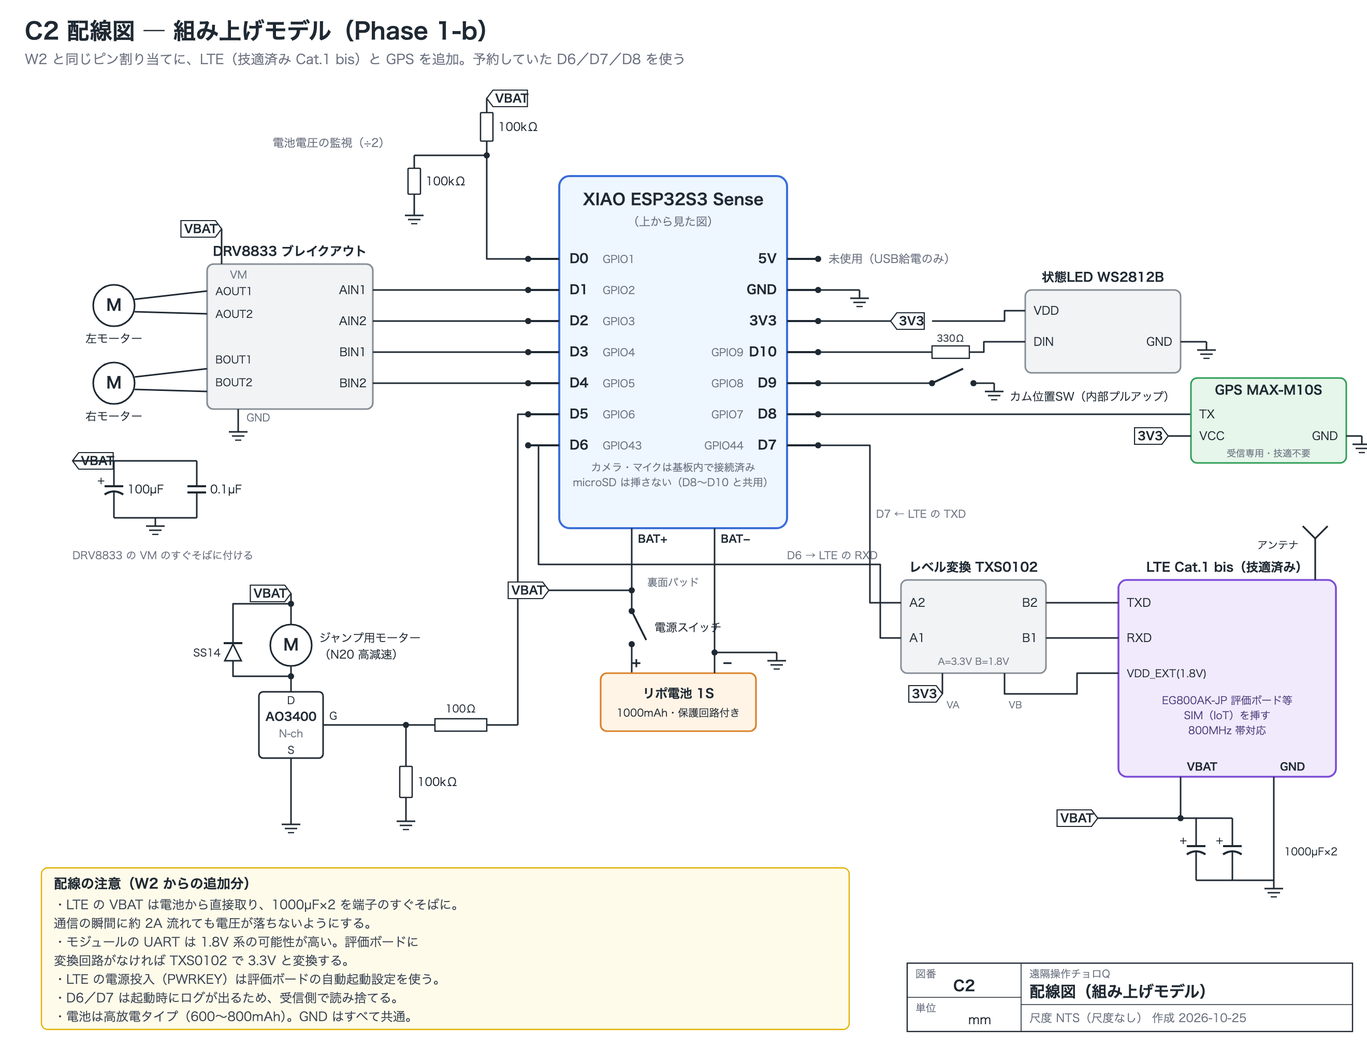
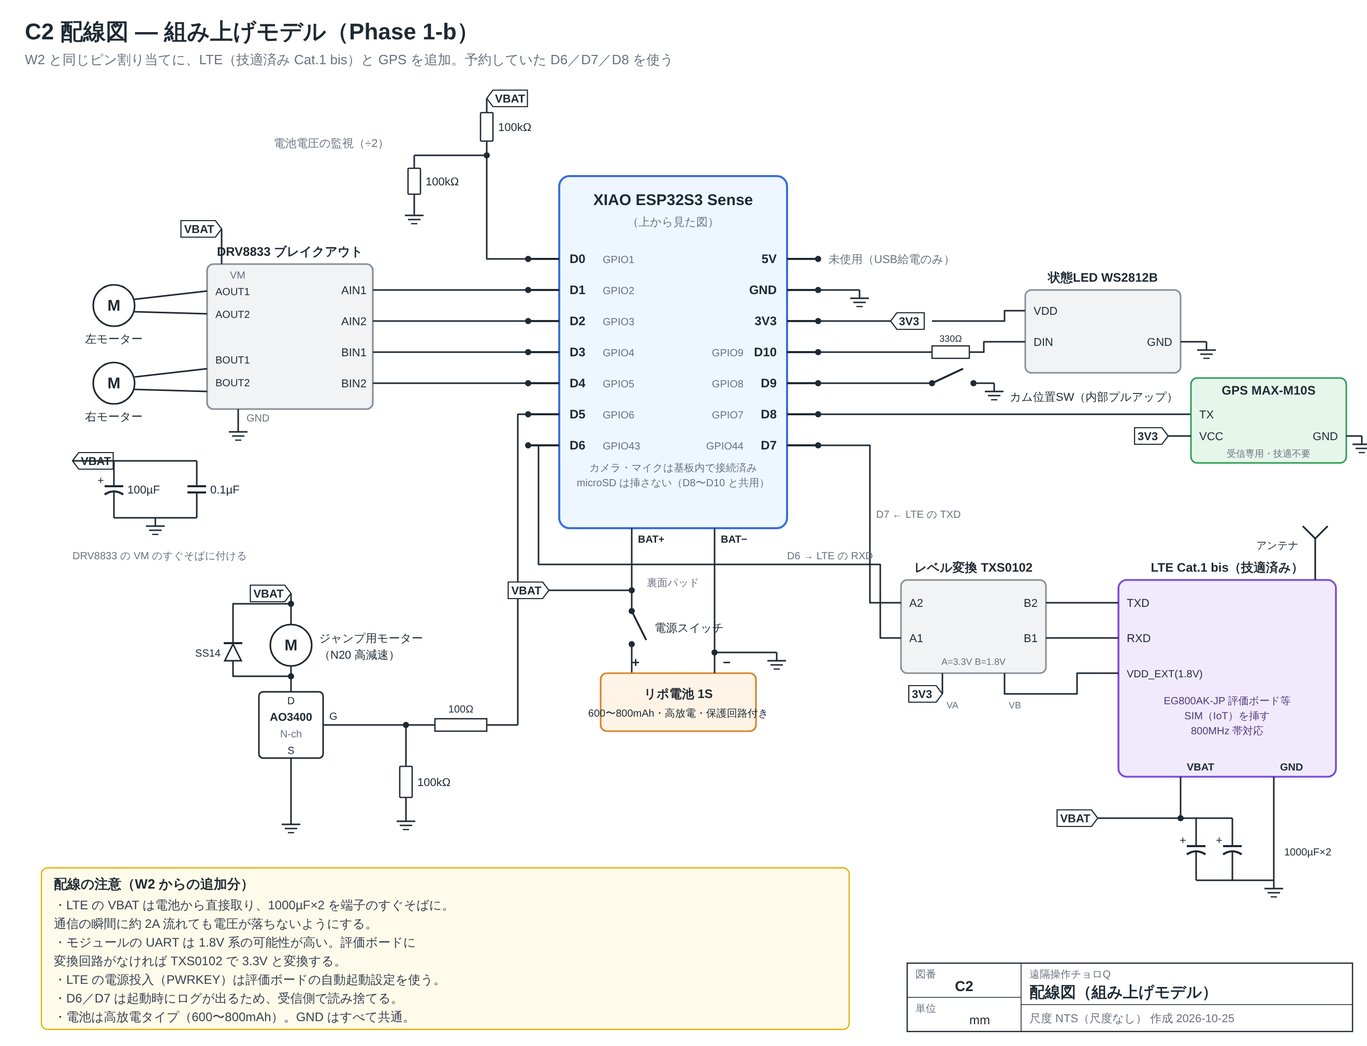
docs: 設計レビュー（2026-10-25）を追加し、図面と README を修正
- docs/review-2026-10-25.md：計画・設計書①②③・図面のレビューと反映状況
- 図面：C2 の電池表記を 600〜800mAh 高放電に、C1 の暗号化ラベルを DTLS-PSK にして
  重なりを解消、C3 にカムの収まり未確定の注記、C4 に段差越えの前進距離と
  ばね寸法の注記、W3 のキャスター破線の描画順を修正、「段階③」を Phase 1-b2 に統一
- render.sh：Linux の Chromium でも動くように。lib.py の死にコードを削除
- README：Phase 1-a／1-b1／1-b2／1-b3／2 の段階表、レビューへのリンク、DTLS-PSK の制約
- CLAUDE.md：段階の呼び方、DTLS-PSK、U137 追加時のピン案

Claude-Session: https://claude.ai/code/session_018snN9VXTb5oK2Z65gV8qfK

diff --git a/docs/drawings/src/d2.py b/docs/drawings/src/d2.py
@@ -22,7 +22,8 @@ def c1():
     s.line(650, 295, 560, 295, GREEN_S, 2, end="arrg")
     s.label_bg(605, 225, "UDP 操作", 11, ORANGE_S)
     s.label_bg(605, 318, "UDP 映像等", 11, GREEN_S)
-    s.text(605, 360, "AES-GCM で暗号化", 10, "middle", fill=MUTED)
+    s.text(605, 358, "DTLS-PSK", 10, "middle", fill=MUTED)
+    s.text(605, 372, "で暗号化", 10, "middle", fill=MUTED)
     s.line(800, 235, 870, 235, ORANGE_S, 2, end="arro")
     s.line(870, 295, 800, 295, GREEN_S, 2, end="arrg")
     s.label_bg(835, 225, "LTE", 11, ORANGE_S)
@@ -46,7 +47,8 @@ def c1():
         "・通信の仕組みは W1 と同じで、経路が「自宅Wi-Fi」から「LTE」に変わるだけ。経路を足せる作りは Phase 2 の中継で使う。",
         "・電波が弱いときは映像の画質を自動で下げ、音声を止めて、操作を最優先にする。",
         "・位置は GPS（屋外で 2〜5m）。屋内では GPS が効かないので、最後の位置と映像で判断する。",
-        "・U137（LTE-M）は後日、屋内で操作が途絶える場合の予備回線として追加する（ピンは別途 I2C 拡張で確保）。",
+        "・U137（LTE-M）は後日、屋内で操作が途絶える場合の予備回線として追加する。ピンはカム位置スイッチを",
+        "  廃止して D8・D9 を U137 の UART に充て、GPS は U137 内蔵の GNSS に置き換える。",
     ], "設計のポイント")
     s.title_block("C1", "システム構成図（組み上げモデル）")
     return s
@@ -56,7 +58,7 @@ def c3():
     k = 4.0
     s = Svg(1300, 1000)
     s.heading("C3  外形図（三面図）― 組み上げモデル",
-              "上段＝電子部品と電池（重い）、下段＝足回り。上下の間のばねでジャンプする。寸法は目安で、段階③の試作後に確定する")
+              "上段＝電子部品と電池（重い）、下段＝足回り。上下の間のばねでジャンプする。寸法は目安で、Phase 1-b2 の試作後に確定する")
     # ---------- top view
     x0, y0 = 120, 150
     L, Wd = 91, 55
@@ -161,6 +163,8 @@ def c3():
         "・前輪は自由回転。左右の回転差で向きを変える（スキッドステア）。",
         "・上段と下段はガイドピン（M2 ねじ）で上下だけ動く。ねじの頭が伸びきりのストッパー。",
         "・目標の重さは約 100g（内訳は設計書②の重量表）。",
+        "・上下のすき間 12mm は縮めると 2mm になる。10mm リフトのカム（直径 30mm 級）の収まり場所は",
+        "  未確定。Phase 1-b2 で「縮めた状態」の側面図も描いて確定する（てこで増幅する案も含む）。",
     ], "設計メモ", 12)
     s.title_block("C3", "外形図（組み上げモデル 三面図）", "約 1:2.5（画面上）")
     return s
@@ -231,7 +235,10 @@ def c4():
         "カムを回す力：トルク ≒ 力 × 半径の増え方（10mm ÷ 約5.2rad）＝ 20N × 1.9mm ≒ 0.04N·m。摩擦込みで 約0.08N·m。",
         "　→ N20 の高減速モーター（1000:1 前後）で回せる見込み。1回転 約3〜4秒 ＝ ジャンプの「チャージ時間」になる。",
         "跳躍の見積もり：上段の速さ √(2×0.1÷0.06) ≒ 1.8m/s → 下段を引っ張った後 約1.1m/s → 高さ 約6cm（損失を引くと 4〜5cm）。",
-        "※ 数値は計算上の目安。段階③の単体試作で、ばねの強さと縮め量を実測して決める。",
+        "前進も要る：3cm より高い滞空は 約0.16秒。ホイールベース 61mm を越えるには 約0.5m/s 必要（走行は 約0.25m/s）。",
+        "　→ ばね軸を前傾させて水平速度を作るか、走行モーターを 500rpm 級にする。試験は「助走付きで段差を越える」で行う。",
+        "ばねの寸法：0.5N/mm を線径 0.55mm で作ると約15巻き、密着高さ 約9mm。自由長 15mm では 10mm 縮まない → 自由長 25mm 以上。",
+        "※ 数値は計算上の目安。Phase 1-b2 の単体試作で、ばねの強さと縮め量を実測して決める。",
     ], "設計計算", 12)
     s.note_box(880, 600, 400, [
         "・SG90 サーボは力が足りないので使わない",

diff --git a/docs/drawings/src/d1.py b/docs/drawings/src/d1.py
@@ -223,7 +223,7 @@ def w2(lte=False):
     BX, BY = X + 40, by + 140
     s.rect(BX, BY, 150, 56, "#fff4e6", ORANGE_S, 1.6, 6)
     s.text(BX + 75, BY + 24, "リポ電池 1S", 12, "middle", "bold")
-    s.text(BX + 75, BY + 42, "1000mAh・保護回路付き", 10, "middle")
+    s.text(BX + 75, BY + 42, "600〜800mAh・高放電・保護回路付き" if lte else "1000mAh・保護回路付き", 10, "middle")
     s.text(BX + 30, BY - 6, "+", 13, weight="bold")
     s.line(X + 150, by + 120, X + 150, BY)
     s.text(X + 158, BY - 6, "−", 13, weight="bold")
@@ -344,9 +344,6 @@ def w3():
     s.rect(ax - 6 * k, y0 + 2 * k, 12 * k, 26 * k, "none", GRAY_S, 1.3, 2, "5 3")
     s.rect(ax - 6 * k, y0 + 32 * k, 12 * k, 26 * k, "none", GRAY_S, 1.3, 2, "5 3")
     s.text(ax + 17 * k + 10, y0 - 9 * k + 15, "← 走行モーター（プレートの下・破線）", 11, fill=GRAY_S)
-    # caster hidden
-    s.circle(x0 + 108 * k, y0 + 30 * k, 9 * k, "none", GRAY_S, 1.3, "5 3")
-    s.text(x0 + L * k + 14, y0 + 42 * k, "ボールキャスター（下・破線）", 11, fill=GRAY_S)
     # battery on top
     s.rect(x0 + 8 * k, y0 + 13 * k, 50 * k, 34 * k, "#fff1e0", ORANGE_S, 1.5, 4)
     s.text(x0 + 33 * k, y0 + 29 * k, "リポ電池", 12, "middle", "bold")
@@ -361,6 +358,9 @@ def w3():
     s.text(bx + 11 * k, by + 19 * k, "DRV", 10, "middle")
     s.rect(bx + 3 * k, by + 29 * k, 10 * k, 4 * k, "#fff", GRAY_S, 1, 1)
     s.text(bx + 16 * k, by + 33 * k, "LED", 9)
+    # caster hidden (drawn after the breadboard so the dashed circle stays visible)
+    s.circle(x0 + 108 * k, y0 + 30 * k, 9 * k, "none", GRAY_S, 1.3, "5 3")
+    s.text(x0 + L * k + 14, y0 + 42 * k, "ボールキャスター（下・破線）", 11, fill=GRAY_S)
     # camera at front edge
     s.rect(x0 + 115 * k, y0 + 25 * k, 6 * k, 10 * k, "#1f2933", INK, 1, 2)
     s.text(x0 + 124 * k, y0 + 23 * k, "カメラ（前向き）", 11)
@@ -408,7 +408,7 @@ def w3():
         "・走行モーターは N20 用の金具でプレートの下に固定する。",
         "・ボールキャスターはスペーサーで高さを合わせ、",
         "  車体が水平になるようにする。",
-        "・ジャンプ機構は段階③で単体の試作機を作る。この",
+        "・ジャンプ機構は Phase 1-b2 で単体の試作機を作る。この",
         "  車台には「動作確認用のカムとスイッチ」だけ載せる。",
         "・寸法は目安。部品が届いたら実測して決める。",
     ], "製作メモ")

diff --git a/docs/drawings/src/lib.py b/docs/drawings/src/lib.py
@@ -91,7 +91,6 @@ class Svg:
         self.add(f'<circle cx="{cx}" cy="{cy}" r="{r}" fill="{fill}" stroke="{stroke}" stroke-width="{sw}"{d}/>')
 
     def label_bg(self, x, y, s, size=12, fill=INK, bg="#ffffff", anchor="middle", weight="normal"):
-        w = len(s) * size * 0.95 if any(ord(c) > 255 for c in s) else len(s) * size * 0.6
         w = sum(size if ord(c) > 255 else size * 0.6 for c in s) + 8
         x0 = x - w / 2 if anchor == "middle" else (x if anchor == "start" else x - w)
         self.add(f'<rect x="{x0}" y="{y - size}" width="{w}" height="{size * 1.4}" rx="3" fill="{bg}" fill-opacity="0.95"/>')

diff --git a/docs/review-2026-10-25.md b/docs/review-2026-10-25.md
@@ -1,0 +1,109 @@
+# 計画・設計書レビュー（2026-10-25）
+
+対象：README、CLAUDE.md、Notion の企画まとめ・部品表・設計書①②③、図面 W1〜W3／C1〜C4／R1〜R3 とその生成スクリプト。
+末尾の「反映状況」に、このレビューで Notion と図面に反映した内容と、判断を残した項目をまとめた。
+
+## 結論
+
+計画と設計書の骨格は堅実で、通信プロトコルの考え方（機体から接続・キー状態 50Hz・連番・300ms 停止・ジャンプ ID）は良くできている。C4 のジャンプ計算（エネルギー・運動量・トルク）も検算して一致した。
+
+一方で、設計書②の「3cm の段差をジャンプで越える」が現状の寸法では成立しない。暗号化・ピン拡張・LTE 基板サイズの 3 つにも設計上の穴がある。ドキュメント間の不整合も数か所あった。Phase 1-a の着手自体は問題ないが、1-b に進む前に A-1〜A-5 を解消する。
+
+## 全体像
+
+この企画は「操作の確実性（300ms 停止）」を最優先にし、映像は劣化を許容する設計である。その軸はすべての設計書で一貫しており、これが最大の強み。
+
+リスクは機械系と 1-b に集中している。1-a は Wi-Fi と机上なので失敗コストが低い。一方 1-b では「LTE 化」「名刺サイズ化」「ジャンプ本番」という 3 つの未知を同時に抱えていた。企画まとめ 7 章にあった「大きめの台車で屋外走行」の段階が設計書から消えていたことが原因で、今回 1-b を 1-b1／1-b2／1-b3 に分けた。
+
+## A. 設計の成立に関わるもの（1-b の前に解消）
+
+### A-1. 段差越えは鉛直高さだけでは足りない
+
+C4 は跳躍高さ 4〜6cm しか見積もっていない。3cm の段差に両軸を乗せるには、3cm より高い滞空中にホイールベース 61mm 以上前進する必要がある。
+
+| 項目 | 値 |
+|---|---|
+| 下段を引き上げた後の初速 | 約 1.1 m/s（C4 と一致） |
+| 高さ 3cm 以上にいる時間 | 約 0.16 秒 |
+| 走行速度（N20 300rpm@6V を 3.7V 駆動、φ26） | 約 0.25 m/s |
+| 滞空中の前進距離 | 約 4cm |
+| 必要な前進距離 | 61mm ＋余裕 → 約 0.5 m/s 必要 |
+
+対策は、ばね軸を前傾させて水平速度成分を作る、または走行モーターを 500rpm 級にする。Phase 1-b2 の試験は「鉛直高さ」ではなく「助走付きで段差を越える」で行う。
+
+### A-2. ばねとカムの寸法が C3 と両立しない
+
+- 部品表のばね（自由長 15mm、線径 0.5〜0.6、外径 5〜6）で 0.5N/mm を出すには約 15 巻きが必要で、密着高さは約 9mm になる。15mm から 10mm は縮められない。自由長 25mm 以上にするか、線径を太くして巻数を減らす。
+- C3 の上下段すき間は 12mm で、縮めると 2mm になる。10mm リフトの渦巻きカムは直径 30mm 級になり、12mm 厚の下段にも 2mm のすき間にも収まらない。C3 に「縮めた状態」の側面図とカムの収まり場所を描いて確定する。てこで 2 倍に増幅して小さいカムを使う案も検討する。
+
+### A-3. AES-GCM の自前実装はノンス再利用の危険がある
+
+機体ごとの固定鍵で、再起動後に連番が 0 に戻ると同じノンスを再利用する。GCM でこれが起きると認証が破れ、平文も漏れる。起動ごとにセッション鍵を作るハンドシェイクを入れるか、ESP-IDF 標準の mbedTLS で DTLS-PSK を使う。後者のほうが安全で実装も少ない。
+
+あわせて、ブラウザ再読込や機体再起動で連番が巻き戻ったときの扱い（セッション ID の付与）が未定義だった。
+
+### A-4. U137 追加のためのピン確保策が成立しない
+
+設計書①は「I2C の GPIO 拡張で確保」としていたが、11 ピンすべて使用済みなので I2C 自体の 2 ピンがない。U137 は UART なので拡張 IC 経由でも動かない。
+
+案：カム位置スイッチを廃止してモーター電流か時間で「チャージ完了」を検知し、U137 内蔵の GNSS で MAX-M10S を置き換え、空いた D8 と D9 を U137 の UART に充てる。
+
+### A-5. LTE 基板のサイズとアンテナ効率が 1-b の最大リスク
+
+Quectel の評価ボードは 100mm 級で名刺サイズに載らない。代替の「モジュール＋自作キャリア基板」は LCC パッケージのはんだ付けが必要で、初めてのハード開発には重い。さらに 800MHz 帯のアンテナは波長の 4 分の 1 が約 9cm で、91mm の筐体ではグランドが足りず効率が落ちる。床すれすれという不利に上乗せされる。
+
+1-a と並行して評価ボードを入手し、床置きで実測して方針を決める。
+
+## B. 計画の構成
+
+- **B-1. 段階の番号体系が 3 種類あった。** 企画まとめは段階①〜④、部品表は区分 A/B/C と①②③、設計書は Phase 1-a/1-b/2。「Phase 1-a／1-b1／1-b2／1-b3／2」に統一した。
+- **B-2. 1-b を 3 つに割る。** 1-b1＝W3 の車台のまま LTE＋VPS＋GPS に載せ替える、1-b2＝ジャンプ機構の単体試作、1-b3＝名刺サイズに統合。企画まとめ 7 章の方針どおりになり、不具合の切り分けが容易になる。
+- **B-3. ジオフェンス停止は屋内で誤動作する。** 屋内では GPS が数十 m 飛ぶため、店内で突然止まる恐れがある。衛星数と HDOP の条件とヒステリシスを付ける。
+- **B-4. Phase 2 の合格基準を見直す。** 弱い LTE で増えるのは主にパケットロスと途絶で、遅延差は R3 ほど開かない可能性がある。「300ms 停止の発生回数」と「到達率」を主指標にする。
+- **B-5. ESP-NOW での映像中継は分割設計が要る。** ペイロード上限は 250 バイト（新しい ESP-IDF の v2 で約 1.4KB）。JPEG フレームの分割と再構成、欠けたフレームの破棄を設計書③に明記する。
+
+## C. ドキュメントの不整合
+
+- **C-1.** 企画まとめ 4 章が WebRTC・ハードウェアエンコード・B フレームなしと書いていたが、設計書は WebSocket と MJPEG。ESP32-S3 に H.264 エンコーダはないので企画まとめ側が古い。
+- **C-2.** 企画まとめ 6 章の「目立つ色とブザー」は、3 章と設計書の「ブザーは付けない」と矛盾。
+- **C-3.** C2 図面の電池が「1000mAh」のままだった（設計書②は 600〜800mAh 高放電）。`d1.w2(lte=True)` で電池の描画を共有していたため。
+- **C-4.** 部品表 A に WS2812B 直列の 330Ω、XIAO 電池パッドへの JST-PH ピグテール、1-a の動作確認用カムがなかった。100kΩ は合計 3 本必要。
+- **C-5.** 細部：C1 の「AES-GCM で暗号化」ラベルがサーバ枠に重なる。W3 のボールキャスター破線がブレッドボードの下に隠れる。`lib.py` の `label_bg` 先頭の幅計算は死にコード。`render.sh` は macOS 専用。
+
+## D. 電源と運用
+
+- **D-1.** XIAO の充電電流は約 100mA の仕様で、1000mAh の満充電に約 10 時間かかる。会場運用には外部の 1S 充電器と予備電池が必要。
+- **D-2.** 低電圧のしきい値が未定義。保護回路のカットオフは 2.5〜3.0V で低すぎ、LTE の 2A バーストで 3.3V レギュレータがブラウンアウトする。警告 3.5V、停止 3.3V を目安にする。ADC 入力には 0.1µF を並列に入れる。
+- **D-3.** 300ms 停止の前提として、サーバは状態を補完せず素通しする旨を明記する。試験に「ブラウザのタブを固まらせる」を追加。往復遅延は時計が同期していないので、機体がタイムスタンプをエコーする形にする。
+- **D-4.** 上段を密閉すると XIAO はストリーミング中に 60℃を超え、LTE も発熱する。通気を考慮する。
+
+## 良い点
+
+機体から接続のみ・技適縛り・録画しない方針の一貫性、「探す」を使わない論証の丁寧さ、ピン割り当ての全モデル共通化、C4 の運動量計算の正確さ。
+
+## 反映状況
+
+### このコミットで反映（図面・リポジトリ）
+
+- C2：電池表記を 600〜800mAh 高放電に（C-3）
+- C1：暗号化ラベルを DTLS-PSK に変更して重なりを解消、U137 のピン案を注記に（A-3、A-4、C-5）
+- C3：すき間 2mm とカムの収まりが未確定であることを注記に（A-2）
+- C4：前進距離の計算とばね寸法の注記を追加（A-1、A-2）
+- W3：キャスターの破線が隠れないよう描画順を修正（C-5）
+- 全図面：「段階③」を「Phase 1-b2」に統一（B-1）
+- `render.sh`：Linux の Chromium でも動くように。`lib.py` の死にコードを削除（C-5）
+- README・CLAUDE.md：段階の呼び方と不変の制約（DTLS-PSK、U137 のピン案）を更新
+
+### Notion に反映
+
+- 企画まとめ：4 章の通信方式（WebSocket／MJPEG）、6 章のセキュリティ（DTLS-PSK、ジオフェンスの条件）とブザーの記述、7 章の段階表（Phase 統一・1-b の分割）、8 章の未決事項
+- 設計書①：ピン表の U137 案、電源のしきい値、通信の約束ごと（セッション・素通し・エコー）、試験項目
+- 設計書②：1-b の進め方、完成条件、電源、通信、ジャンプ機構、試験、リスク
+- 設計書③：完成条件の指標、中継仕様（分割・DTLS との関係）、試験
+- 部品表：区分の呼び方、A の追加部品、B のばね仕様と充電器、確認事項
+
+### 判断を残した項目（ユーザー決定）
+
+- A-1 の対策をどちらにするか（ばね軸の前傾／走行モーターの高速化）。設計書②には両案を併記した
+- A-4 のカム位置スイッチ廃止は U137 を足すときに実施する前提で記載。1-a／1-b ではスイッチを残す
+- B-3 のジオフェンスを「条件付き停止」にするか「警告のみ」にするか。設計書②は条件付き停止で記載した

diff --git a/README.md b/README.md
@@ -17,9 +17,13 @@
 | フェーズ | 内容 | 状態 |
 |---|---|---|
 | 1-a Wi-Fiモデル | XIAO ESP32S3 Sense を自宅 Wi-Fi で机上で動かす（操作・映像・音声・ラグ計測） | 部品の注文前 |
-| 1-b 組み上げモデル | 技適済み LTE Cat.1 bis＋GPS に載せ替え、名刺サイズの2段構造に組み上げる | 未着手 |
+| 1-b1 LTE 化 | 1-a の車台のまま、技適済み LTE Cat.1 bis＋GPS＋東京の VPS に載せ替える | 未着手 |
+| 1-b2 ジャンプ単体試作 | ばね＋渦巻きカム＋高減速 N20 を単体で試作し、助走付きで 3cm の段差を越えることを確認する | 未着手 |
+| 1-b3 組み上げモデル | 1-b1 と 1-b2 の結果をもとに、名刺サイズの2段構造に統合する | 未着手 |
 | 2 中継ペアモデル | 同じ機体をもう1台作り、ESP-NOW で中継する（B が近いと A の操作が軽くなる） | 未着手 |
 | 後日 | U137（LTE-M）を予備回線として追加 | 未着手 |
+
+設計書②は 1-b1〜1-b3 をまとめて扱う。段階の呼び方はこの表（Phase 1-a／1-b1／1-b2／1-b3／2）に統一する。
 
 ## 構成
 
@@ -29,7 +33,14 @@ server/     中継サーバ（Node.js。1-a は PC 内、1-b からは東京の 
 firmware/   機体のファームウェア（XIAO ESP32S3 Sense）
 docs/drawings/      図面（W=Wi-Fiモデル、C=組み上げモデル、R=中継ペア）の SVG と PNG
 docs/drawings/src/  図面の生成スクリプト
+docs/review-*.md    設計レビューの記録
 ```
+
+## レビュー
+
+| 日付 | 内容 |
+|---|---|
+| [2026-10-25](docs/review-2026-10-25.md) | 計画・設計書①②③・図面の初回レビュー。段差越えの前進距離、ばね・カムの寸法、DTLS-PSK、U137 のピン案、1-b の分割など |
 
 ## 図面
 
@@ -39,7 +50,7 @@ docs/drawings/src/  図面の生成スクリプト
 | [C1](docs/drawings/c1.png) / [C2](docs/drawings/c2.png) / [C3](docs/drawings/c3.png) / [C4](docs/drawings/c4.png) | 組み上げモデル：システム構成図／配線図／三面図／ジャンプ機構図 |
 | [R1](docs/drawings/r1.png) / [R2](docs/drawings/r2.png) / [R3](docs/drawings/r3.png) | 中継ペア：運用配置図／通信経路図／シーケンス図 |
 
-図面を描き直すとき（macOS、Google Chrome で PNG に変換する）:
+図面を描き直すとき（PNG への変換は macOS なら Google Chrome、Linux なら Chromium を使う。`CHROME=/path/to/chrome` で指定もできる）:
 
 ```sh
 cd docs/drawings
@@ -53,3 +64,4 @@ src/render.sh *.svg                                            # PNG に変換
 - 参加者のスマホや「探す」ネットワークは使わない
 - 映像と音声は録画・録音しない
 - 操作が 300ms 届かなければ、機体が自分で止まる
+- 機体とサーバの暗号化は DTLS-PSK（機体ごとの鍵）。自前の AES-GCM は使わない

diff --git a/CLAUDE.md b/CLAUDE.md
@@ -6,6 +6,8 @@
 
 - 要件・設計の正本は Notion（リンクは README.md）。設計を変えたら Notion も更新する
 - 図面は `docs/drawings/src/` のスクリプトで生成する。PNG を直接いじらない
+- 段階の呼び方は Phase 1-a／1-b1／1-b2／1-b3／2 に統一する（README の表が定義。「段階①〜④」は使わない）
+- 設計レビューは `docs/review-YYYY-MM-DD.md` に残す
 
 ## 不変の制約
 
@@ -13,8 +15,9 @@
 - 参加者（高齢者が多い）にはアプリの導入も設定も頼まない。参加者のスマホと「探す」ネットワークは使わない
 - 映像と音声は録画・録音しない（microSD は使わない）
 - 機体は自分からサーバへ接続する。外からの接続は受け付けない
-- 操作は「キーの押下状態」を 50Hz で連番付きで送る。300ms 途絶えたら機体側で停止する。ジャンプは ID 付きで1回だけ実行する
-- XIAO のピン割り当ては全モデル共通（設計書①の4章）。D6/D7/D8 は LTE と GPS 用
+- 操作は「キーの押下状態」を 50Hz で連番付きで送る。300ms 途絶えたら機体側で停止する。ジャンプは ID 付きで1回だけ実行する。サーバは操作を補完せず素通しする
+- 機体とサーバの暗号化は DTLS-PSK（機体ごとの鍵）。自前の AES-GCM は使わない（ノンス再利用の危険）
+- XIAO のピン割り当ては全モデル共通（設計書①の4章）。D6/D7/D8 は LTE と GPS 用。U137 を足すときはカム位置スイッチを廃止し、D8/D9 を U137 の UART に充てる
 
 ## 技術スタック
 
